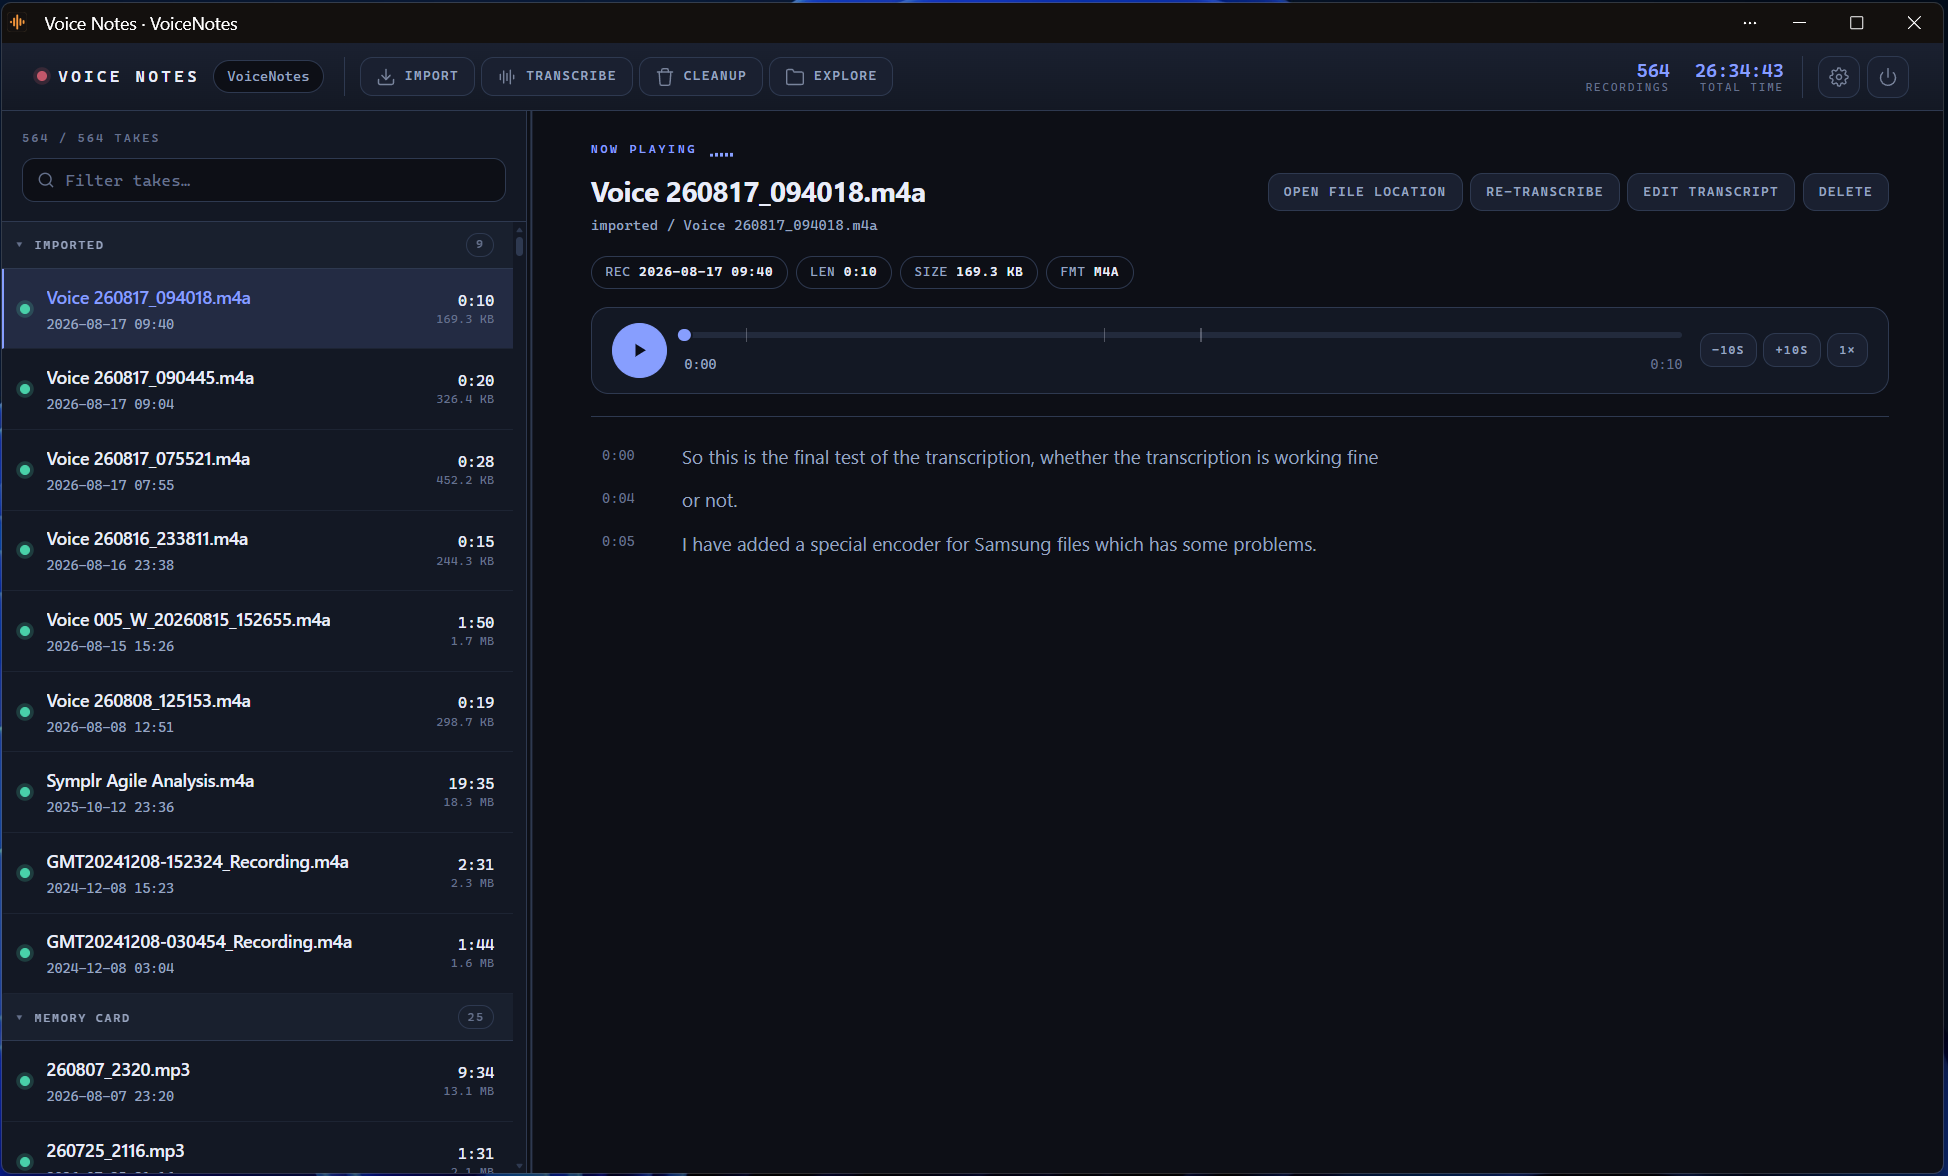
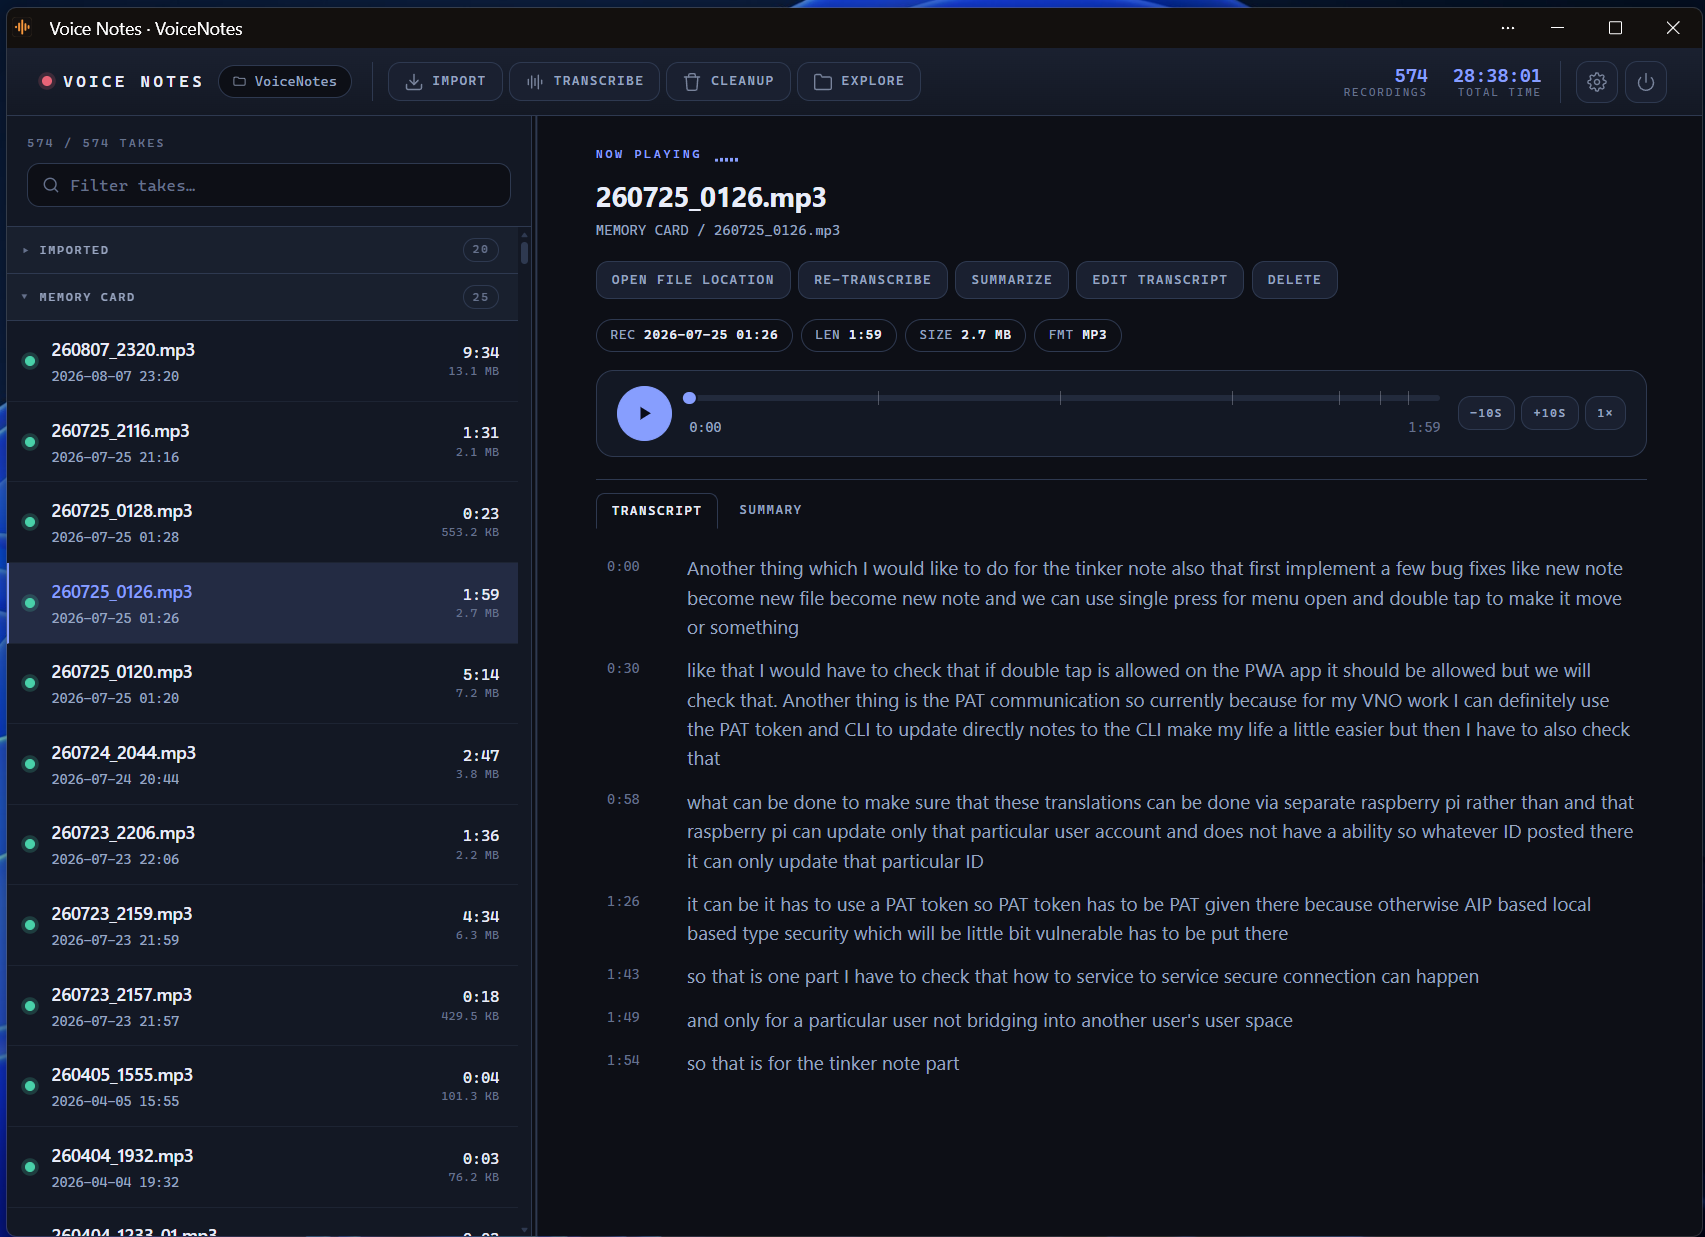
Document video recording support and refresh the UI screenshot
README, cli-reference and ui docs still described video files as
transcribe-only and not part of the library, which stopped being true once
import/cleanup/the browser UI gained video support. Also fixes a stale
#supported-audio-extensions anchor left over from that rename.

diff --git a/docs/ui.md b/docs/ui.md
@@ -63,10 +63,17 @@ exists.
 - **Now playing** header with the file name and its folder path.
 - **Metadata chips**: `REC` (recorded date/time), `LEN` (duration), `SIZE`,
   `FMT` (container).
+- **Video recordings** (`.mp4`, `.m4v`, `.mov`, `.mkv`, `.webm`, `.avi`) get a
+  themed frame above the transport showing the picture; a capped max-height
+  keeps a portrait or odd-aspect clip from pushing the transport and
+  transcript off screen. Audio-only recordings show no frame — everything
+  else about the deck (transport, scrub rail, cue ticks, transcript
+  highlighting) works identically for both, since both play through the same
+  custom transport.
 - **Transport** — play/pause, a draggable scrub rail, elapsed and total time,
   `−10s` / `+10s`, and a speed key cycling 1× → 1.25× → 1.5× → 2× → 0.75×. The
   rail carries a **tick per transcript cue**, so you can see where speech was
-  segmented before you play it. Audio is streamed from disk with range
+  segmented before you play it. Media is streamed from disk with range
   requests, so seeking works and nothing is copied anywhere. With the scrub
   focused, `←` / `→` seek five seconds, `Home` / `End` jump to either end, and
   `Space` plays or pauses.
@@ -128,7 +135,7 @@ auto-import them next time** (on by default).
 If nothing is connected, the dialog says so and points at the `sources` config
 option.
 
-**Drag and drop** — dragging audio file(s) from your OS file manager onto the
+**Drag and drop** — dragging audio or video file(s) from your OS file manager onto the
 page (anywhere, no dialog needed) copies them straight in, landing in a
 `Dropped/` folder next to the per-device ones. Same-name-and-size dedup applies,
 so dropping the same file twice is a no-op; a file matching one you deleted

diff --git a/README.md b/README.md
@@ -173,10 +173,10 @@ A few things worth knowing up front:
   This form is built to script: it exits non-zero if the transcription fails,
   and with `-o -` the transcript is the only thing on stdout, so
   `vno t clip.mp4 -o - 2>/dev/null | your-tool` pipes cleanly.
-- **Video files transcribe too, in this direct mode.** `.mp4`, `.mkv`, `.mov`
-  and `.webm` all work — ffmpeg pulls the audio track out, video ignored.
-  They're not part of the library import (which is audio-only), just this
-  one-shot form.
+- **Video recordings are first-class.** Import, transcribe, cleanup and the UI
+  all recognize `.mp4`, `.m4v`, `.mov`, `.mkv`, `.webm` and `.avi` alongside
+  audio. The playback deck shows the video itself above the same transport and
+  cue-synced transcript used for audio.
 - **Nothing deletes without asking.** Only `cleanup` and the UI's delete
   buttons remove files, always behind a confirmation. Import and transcribe
   never delete anything.
@@ -195,8 +195,9 @@ folder, import sources, model, language, theme and the rest. You shouldn't
 need to hand-edit anything, but it all lives in one file if you want to:
 `~/.vno/config.json` (`vno config` prints the path).
 
-**Supported audio** — `.mp3 .wav .m4a .aac .flac .ogg .oga .wma .aiff .opus
-.amr .3gp`. Anything else on the volume is ignored.
+**Supported audio and video** — `.mp3 .wav .m4a .aac .flac .ogg .oga .wma
+.aiff .opus .amr .3gp .mp4 .m4v .mov .mkv .webm .avi`. Anything else on the
+volume is ignored.
 
 📖 **[Full configuration reference →](docs/configuration.md)** — every key, in
 detail.

diff --git a/docs/cli-reference.md b/docs/cli-reference.md
@@ -183,18 +183,19 @@ vno status >/dev/null || { echo "run: vno setup"; exit 1; }
 
 #### Video files
 
-The direct mode passes the file to ffmpeg, which extracts the audio track from
-any container it can read — so `.mp4`, `.mkv`, `.mov` and `.webm` all
-transcribe, video track ignored:
+Video recordings are recognized everywhere, not just here — import, the
+picker, cleanup and the browser UI all go by the [supported audio and video
+extensions](configuration.md#supported-audio-and-video-extensions). In the
+browser UI, a video plays in a themed frame above the same transport and
+cue-synced transcript used for audio; see [the UI docs](ui.md#right-pane--the-playback-deck).
+
+This direct mode works the same way it does for audio: the file is passed to
+ffmpeg, which extracts the audio track from any container it can read — so
+`.mp4`, `.mkv`, `.mov` and `.webm` all transcribe, video track ignored:
 
 ```bash
 vno t screencast.mp4 -o notes.vtt
 ```
-
-This applies to the direct `[file]` argument only. Import, the picker and the
-browser UI go by the [supported audio extensions](configuration.md#supported-audio-extensions),
-which don't include video containers — videos can be transcribed, but not kept
-in your library.
 
 It still runs the same ffmpeg/whisper.cpp check as every other path, and walks
 you through [`vno setup`](#vno-setup) if something's missing.
